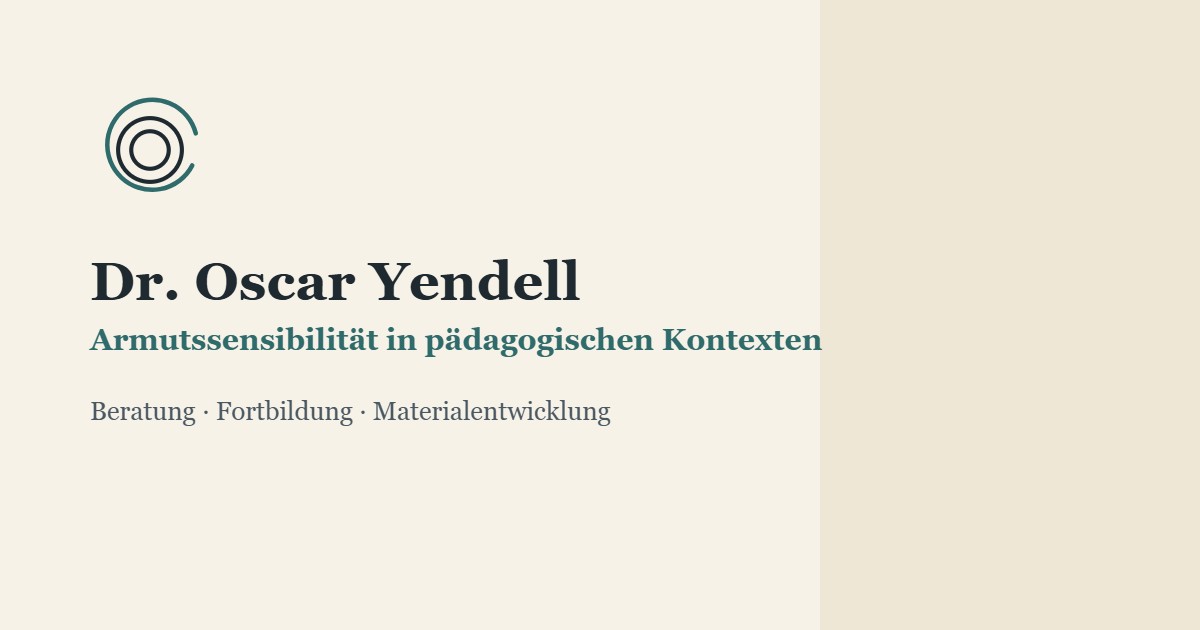
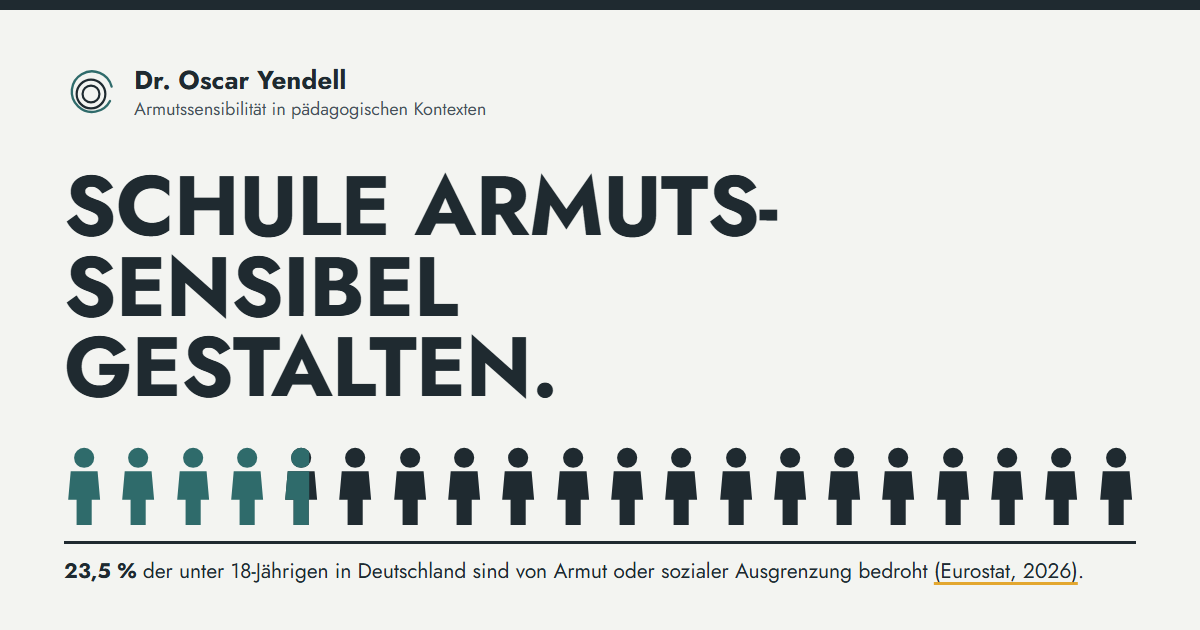
Vorschaubild im neuen Stil, Destatis-Quelle korrigiert
- og-image.png neu: Logo, Titel und Zählreihe in der Bildstatistik
- Quellenangabe Destatis mit dem genauen Tabellentitel aus GENESIS-Online

diff --git a/index.app.js b/index.app.js
@@ -516,7 +516,7 @@ function Sources() {
       h('ol', null,
         h('li', { id: 'quelle-beeson' }, 'Beeson, M., Wildman, J. M., & Wildman, J. (2024). Does tackling poverty related barriers to education improve school outcomes? Evidence from the North East of England. ', h('i', null, 'Economics Letters, 236'), ', Artikel 111614. ', h('a', { href: 'https://doi.org/10.1016/j.econlet.2024.111614' }, 'https://doi.org/10.1016/j.econlet.2024.111614')),
         h('li', { id: 'quelle-eurostat' }, 'Eurostat. (2026). ', h('i', null, 'Persons at risk of poverty or social exclusion by age and sex (ilc_peps01n)'), ' [Datensatz]. Abgerufen am 13. November 2026 von ', h('a', { href: 'https://doi.org/10.2908/ILC_PEPS01N' }, 'https://doi.org/10.2908/ILC_PEPS01N')),
-        h('li', { id: 'quelle-destatis' }, 'Statistisches Bundesamt. (2026). ', h('i', null, 'Armutsgefährdungsschwelle (EU-SILC), Tabelle 12241-0002'), ' [Datensatz]. GENESIS-Online. Abgerufen am 13. November 2026 von ', h('a', { href: 'https://genesis.destatis.de/datenbank/online/statistic/12241/table/12241-0002' }, 'https://genesis.destatis.de/datenbank/online/statistic/12241/table/12241-0002')))));
+        h('li', { id: 'quelle-destatis' }, 'Statistisches Bundesamt. (2026). ', h('i', null, 'EU-SILC – Armutsgefährdungsschwelle (60%-Median): Deutschland, Jahre, Haushaltstyp'), ' (Tabelle 12241-0002) [Datensatz]. GENESIS-Online. Abgerufen am 13. November 2026 von ', h('a', { href: 'https://genesis.destatis.de/datenbank/online/statistic/12241/table/12241-0002' }, 'https://genesis.destatis.de/datenbank/online/statistic/12241/table/12241-0002')))));
 }
 window.Sources = Sources;
 })();
